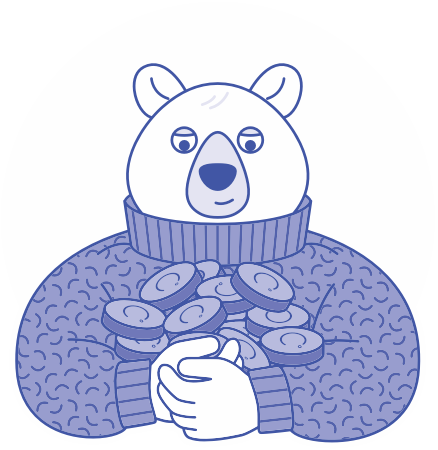
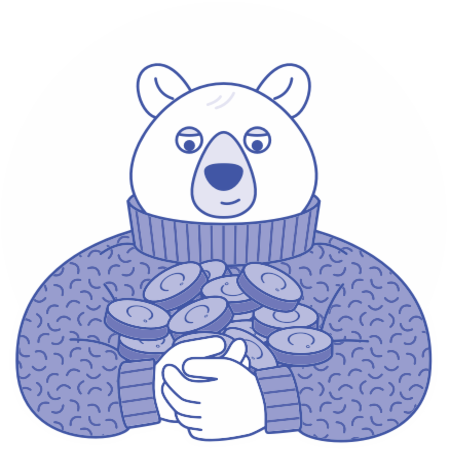
CN-3564: Fix Styles

diff --git a/app/components/organisms/CelModal/CelModal.js b/app/components/organisms/CelModal/CelModal.js
@@ -30,6 +30,7 @@ import CelText from '../../atoms/CelText/CelText'
 import CelInput from '../../atoms/CelInput/CelInput'
 import Message from '../../molecules/Message/Message'
 import STYLES from '../../../constants/STYLES';
+import CelButton from '../../atoms/CelButton/CelButton';
 
 const cardWidth = widthPercentageToDP("70%");
 const { width } = Dimensions.get('window');
@@ -91,12 +92,6 @@ class CelModal extends Component {
     }[theme]
   }
 
-  closeModalHandler = () => {
-    const { closeModal } = this.props
-    closeModal()
-    this.setState({ currentStep: 1 })
-  }
-
 
   transitionAnimation = (index) => ({
     transform: [
@@ -120,9 +115,7 @@ class CelModal extends Component {
     const style = CelModalStyle()
 
     if (!picture) return (
-      <View style={{ zIndex: 10}}>
-        {modalInfo && this.renderMultiStepPicture()}
-      </View>
+      modalInfo && this.renderMultiStepPicture()
     )
     if (pictureCircle) return (
       <View style={style.imageWrapperCircle}>
@@ -140,7 +133,7 @@ class CelModal extends Component {
 
   renderModalContent() {
     const { xOffset } = this.state;
-    const { modalInfo } = this.props
+    const { modalInfo, actions } = this.props
     const style = CelModalStyle()
 
     return (
@@ -160,10 +153,13 @@ class CelModal extends Component {
             showsHorizontalScrollIndicator={false}
           >
             {modalInfo.map((step, index) => (
-              <Animated.View key={index} style={[style.screen, this.transitionAnimation(index)]}>
-                <CelText type='H2' weight='bold' style={style.title}>{step.title}</CelText>
-                <CelText type='H4' style={style.description}>{step.description}</CelText>
-              </Animated.View>
+              <View>
+                <Animated.View key={index} style={[style.screen, this.transitionAnimation(index)]}>
+                  <CelText type='H2' weight='bold' style={style.title}>{step.title}</CelText>
+                  <CelText type='H4' style={style.description}>{step.description}</CelText>
+                  <CelButton margin={'20 0 20 0'} onPress={() => actions.closeModal()}>{step.buttonText}</CelButton>
+                </Animated.View>
+              </View>
             )
             )
             }
@@ -192,11 +188,11 @@ class CelModal extends Component {
               height: 150,
               width: 150,
               position: "absolute",
-              zIndex: 10,
+              zIndex: 1,
               top: -heightPercentageToDP("20%") / 4,
-              left: widthPercentageToDP('50%') / 2
+              left: widthPercentageToDP('54%') / 2
             }}
-            source={step.image} resizeMode="cover" width={150} height={150}
+            source={step.image} width={150} height={150}
           />
         )
       })
@@ -226,7 +222,6 @@ class CelModal extends Component {
           );
         })
         }
-
       </View>
     );
   }
@@ -250,12 +245,12 @@ class CelModal extends Component {
     } = this.props
     const style = CelModalStyle()
     const paddingStyle = padding ? getPadding(padding) : {}
-    // const tintColor = this.getTintColor();
+
 
     let size
     if (picture) size = { paddingVertical: heightPercentageToDP('18%') }
-    else if (!picture && modalType === 'withdraw') size = { paddingVertical: heightPercentageToDP('18%') }
-    else size = { paddingVertical: heightPercentageToDP('5%') }
+    else if (!picture && modalType === 'withdraw') size = { paddingVertical: heightPercentageToDP('14%'), }
+    else size = { paddingVertical: heightPercentageToDP('1%') }
 
     const childrenWithProps = addThemeToComponents(
       children,
@@ -271,11 +266,9 @@ class CelModal extends Component {
         modalInfo={modalInfo}
       >
         <Message />
-
         <View style={[style.wrapper, size]}>
           <View style={style.modal}>
             {this.renderImage()}
-
             {shouldRenderCloseButton ? (
               <TouchableOpacity
                 style={style.closeBtn}
@@ -299,26 +292,25 @@ class CelModal extends Component {
             )
               :
               null}
-
             {noScroll ? (
               <View style={[style.contentWrapper, { marginTop: header ? heightPercentageToDP('15.3%') : heightPercentageToDP('8%') }, paddingStyle]}>
                 {childrenWithProps}
               </View>
             ) : (
-                <ScrollView
-                  style={[style.contentWrapper, { marginTop: header ? heightPercentageToDP('15.3%') : heightPercentageToDP('5%') }, paddingStyle]}
-                  showsVerticalScrollIndicator={false}
-                  contentContainerStyle={{ flexGrow: 1 }}
-                >
-                  {modalInfo.length > 1 && this.renderDots()}
-                  {!!modalInfo && this.renderModalContent()}
-                  {childrenWithProps}
-
-                </ScrollView>
+                <View>
+                  <ScrollView
+                    style={[style.contentWrapper, { marginTop: header ? heightPercentageToDP('15.3%') : heightPercentageToDP('5%') }, paddingStyle]}
+                    showsVerticalScrollIndicator={false}
+                    contentContainerStyle={{ flexGrow: 1 }}
+                  >
+                    {!!modalInfo && modalInfo.length > 1 && this.renderDots()}
+                    {!!modalInfo && this.renderModalContent()}
+                    {childrenWithProps}
+                  </ScrollView>
+                </View>
               )}
           </View>
-          <BlurView tint={'dark'} intensity={100} style={StyleSheet.absoluteFill}
-          >
+          <BlurView tint={'dark'} intensity={100} style={StyleSheet.absoluteFill}>
             <TouchableOpacity style={style.outsideCloseModal} onPress={() => {
               actions.closeModal()
               if (onClose) onClose()

diff --git a/app/components/organisms/WithdrawInfoModal/WithdrawInfoModal.js b/app/components/organisms/WithdrawInfoModal/WithdrawInfoModal.js
@@ -6,7 +6,6 @@ import { Animated } from "react-native";
 import formatter from "../../../utils/formatter";
 import CelModal from "../CelModal/CelModal";
 import { MODALS } from "../../../constants/UI";
-import CelButton from '../../atoms/CelButton/CelButton';
 
 class WithdrawInfoModal extends Component {
   static propTypes = {
@@ -29,21 +28,25 @@ class WithdrawInfoModal extends Component {
           image: require('../../../../assets/images/illustrations-v3/PolarBearHODL3x.png'),
           title: "Are you sure you want to withdraw CEL?",
           description: "A withdrawal could affect your membership interest rates. Rates are determined by your loyalty level: the amount of CEL you HODL vs. the amount of other assets you hold. Please view our loyalty program.",
+          buttonText: 'Continue'
         },
         {
           image: require('../../../../assets/images/illustrations-v3/PolarBearSad3x.png'),
           title: `Immediate withdrawals under ${withdrawalSettings && formatter.usd(withdrawalSettings.maximum_withdrawal_amount)}`,
           description: "Celsius enables you to withdraw coins at any time. However, when exceeding this limit, withdrawals might be delayed for twenty-four (24) hours due to our security protocols.",
+          buttonText: 'Continue'
         },
         {
           image: require('../../../../assets/images/illustrations-v3/PolarBearFistUp3x.png'),
           title: "Don’t forget to check your withdrawal address",
           description: "Celsius uses a smart-contract based wallet for ETH and ERC20 coins, some wallets and exchanges (e.g. Bitfinex) do not support transactions from a smart-contract source. We recommend a one time test withdrawal with a small sum. Contact app@celsius.network if you are unsure.",
+          buttonText: 'Continue'
         },
         {
           image: require('../../../../assets/images/illustrations-v3/PolarBearFistUp3x.png'),
           title: "Transactions are safely secured with BitGo",
           description: "BitGo is a leading custodial service powering exchanges like Kraken and UPbit. Coins will be moved from time to time to exchanges or to Hedge funds borrowing coins in order to short the market, in this case, coins are converted to fiat and secured in an FDIC-insured bank account.",
+          buttonText: 'Continue'
         },
 
       ],
@@ -72,11 +75,8 @@ class WithdrawInfoModal extends Component {
         onClose={this.closeModalHandler}
         modalInfo={array}
         modalType={'withdraw'}
-      >
-        <CelButton margin={'20 0 20 0'} onPress={this.closeModalHandler}>
-          Continue
-        </CelButton>
-      </CelModal>
+      />
+
     );
   }
 }

diff --git a/app/components/organisms/CelModal/CelModal.styles.js b/app/components/organisms/CelModal/CelModal.styles.js
@@ -76,6 +76,7 @@ const base = {
   },
   screen: {
     width: widthPercentageToDP("80%"),
+    // height: heightPercentageToDP('50%'),
     justifyContent: "flex-start",
     alignItems: "center",
     alignContent: 'flex-start',
@@ -87,11 +88,13 @@ const base = {
     alignItems: 'center',
     justifyContent: 'center',
     paddingBottom: 10,
-    paddingTop: 30,
+    paddingTop: 20,
+    paddingHorizontal: 10,
     color: STYLES.COLORS.DARK_GRAY
 
   },
   description: {
+    paddingHorizontal: 10,
     textAlign: 'center',
     alignItems: 'center',
     justifyContent: 'center',
@@ -112,15 +115,14 @@ const base = {
     flex: 1,
     flexDirection: 'row',
     justifyContent: 'center',
-    alignItems: 'center',
-    paddingTop: heightPercentageToDP('14%')
+    paddingTop: 100,
   },
   dotsDeposit: {
     flex: 1,
     flexDirection: 'row',
     justifyContent: 'center',
     alignItems: 'center',
-    marginTop: heightPercentageToDP("5%")
+    marginTop: heightPercentageToDP("10%")
   },
 };
 

diff --git a/app/components/organisms/DepositInfoModal/DepositInfoModal.js b/app/components/organisms/DepositInfoModal/DepositInfoModal.js
@@ -8,7 +8,6 @@ import { bindActionCreators } from "redux";
 import * as appActions from "../../../redux/actions";
 import CelModal from "../CelModal/CelModal";
 import { MODALS } from "../../../constants/UI";
-import CelButton from "../../atoms/CelButton/CelButton";
 
 @connect(
   state => ({
@@ -88,6 +87,7 @@ class DepositInfoModal extends Component {
             image: { uri: coinName.image_url },
             title: `Only deposit EOS (EOS) to this wallet`,
             description: "Sending any other digital asset to this specific address, will result in permanent loss.",
+            buttonText: "Continue"
 
           },
           {
@@ -139,15 +139,7 @@ class DepositInfoModal extends Component {
         pictureCircle
         modalInfo={steps}
         modalType={'deposit'}
-      >
-
-        <CelButton
-          margin={"20 0 20 0"}
-          onPress={this.closeModalHandler}
-        >
-          Continue
-        </CelButton>
-      </CelModal>
+      />
     );
   }
 }
